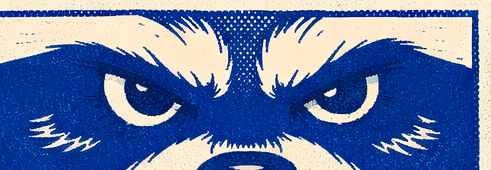
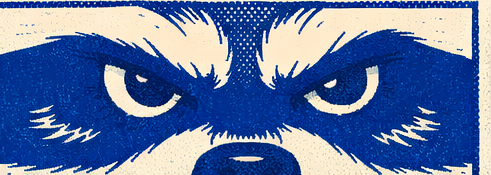
feat(dashboard): inline role badges in active workflow cards
Re-crop the six role banners with per-row y-offsets and row-mean
intensity analysis for clean borders; place them inline next to the
role label inside each active workflow card rather than as a static
Crew strip. Height 22px with 1px bg border and 1px drop shadow; falls
back to display:none when a role has no matching badge.

diff --git a/static/dashboard.html b/static/dashboard.html
@@ -561,42 +561,16 @@
       border-color: var(--terra);
     }
 
-    /* Crew strip — role badges */
-    .crew-strip{
-      display: grid;
-      grid-template-columns: repeat(6, minmax(0, 1fr));
-      gap: 10px;
-      margin: 0 0 16px 0;
-    }
-    .crew-badge{
-      margin: 0;
-      text-align: center;
-      display: flex;
-      flex-direction: column;
-      align-items: center;
-      gap: 6px;
-    }
-    .crew-badge img{
-      display: block;
-      width: 100%;
-      height: auto;
-      max-height: 84px;
-      aspect-ratio: 2.88 / 1;
-      object-fit: cover;
-      border: 2px solid var(--bg);
-      box-shadow: 3px 3px 0 rgba(0,0,0,.55);
+    /* Role badge — inline raccoon eye strip next to role name */
+    img.role-badge{
+      display: inline-block;
+      vertical-align: -6px;
+      height: 22px;
+      width: auto;
+      margin: 0 4px 0 2px;
+      border: 1px solid var(--bg);
+      box-shadow: 1px 1px 0 rgba(0,0,0,.5);
       image-rendering: auto;
-    }
-    .crew-badge figcaption{
-      font-family: var(--f-slab);
-      font-weight: 800;
-      font-size: 11px;
-      letter-spacing: 0.12em;
-      text-transform: uppercase;
-      color: var(--cream-hi);
-    }
-    @media (max-width: 900px){
-      .crew-strip{ grid-template-columns: repeat(3, minmax(0,1fr)); }
     }
 
     /* History Explorer */
@@ -784,14 +758,6 @@
   <div class="page">
 
     <section class="tab-view is-active" id="view-overview" role="tabpanel">
-      <div class="crew-strip" aria-label="The Crew">
-        <figure class="crew-badge"><img src="/dashboard/roles/role-scout.png" alt="Scout"><figcaption>Scout</figcaption></figure>
-        <figure class="crew-badge"><img src="/dashboard/roles/role-planner.png" alt="Planner"><figcaption>Planner</figcaption></figure>
-        <figure class="crew-badge"><img src="/dashboard/roles/role-implementer.png" alt="Implementer"><figcaption>Implementer</figcaption></figure>
-        <figure class="crew-badge"><img src="/dashboard/roles/role-reviewer.png" alt="Reviewer"><figcaption>Reviewer</figcaption></figure>
-        <figure class="crew-badge"><img src="/dashboard/roles/role-foreman.png" alt="Foreman"><figcaption>Foreman</figcaption></figure>
-        <figure class="crew-badge"><img src="/dashboard/roles/role-head.png" alt="Head"><figcaption>Head</figcaption></figure>
-      </div>
       <div class="layout">
         <div class="col">
           <div class="panel panel--terra">
